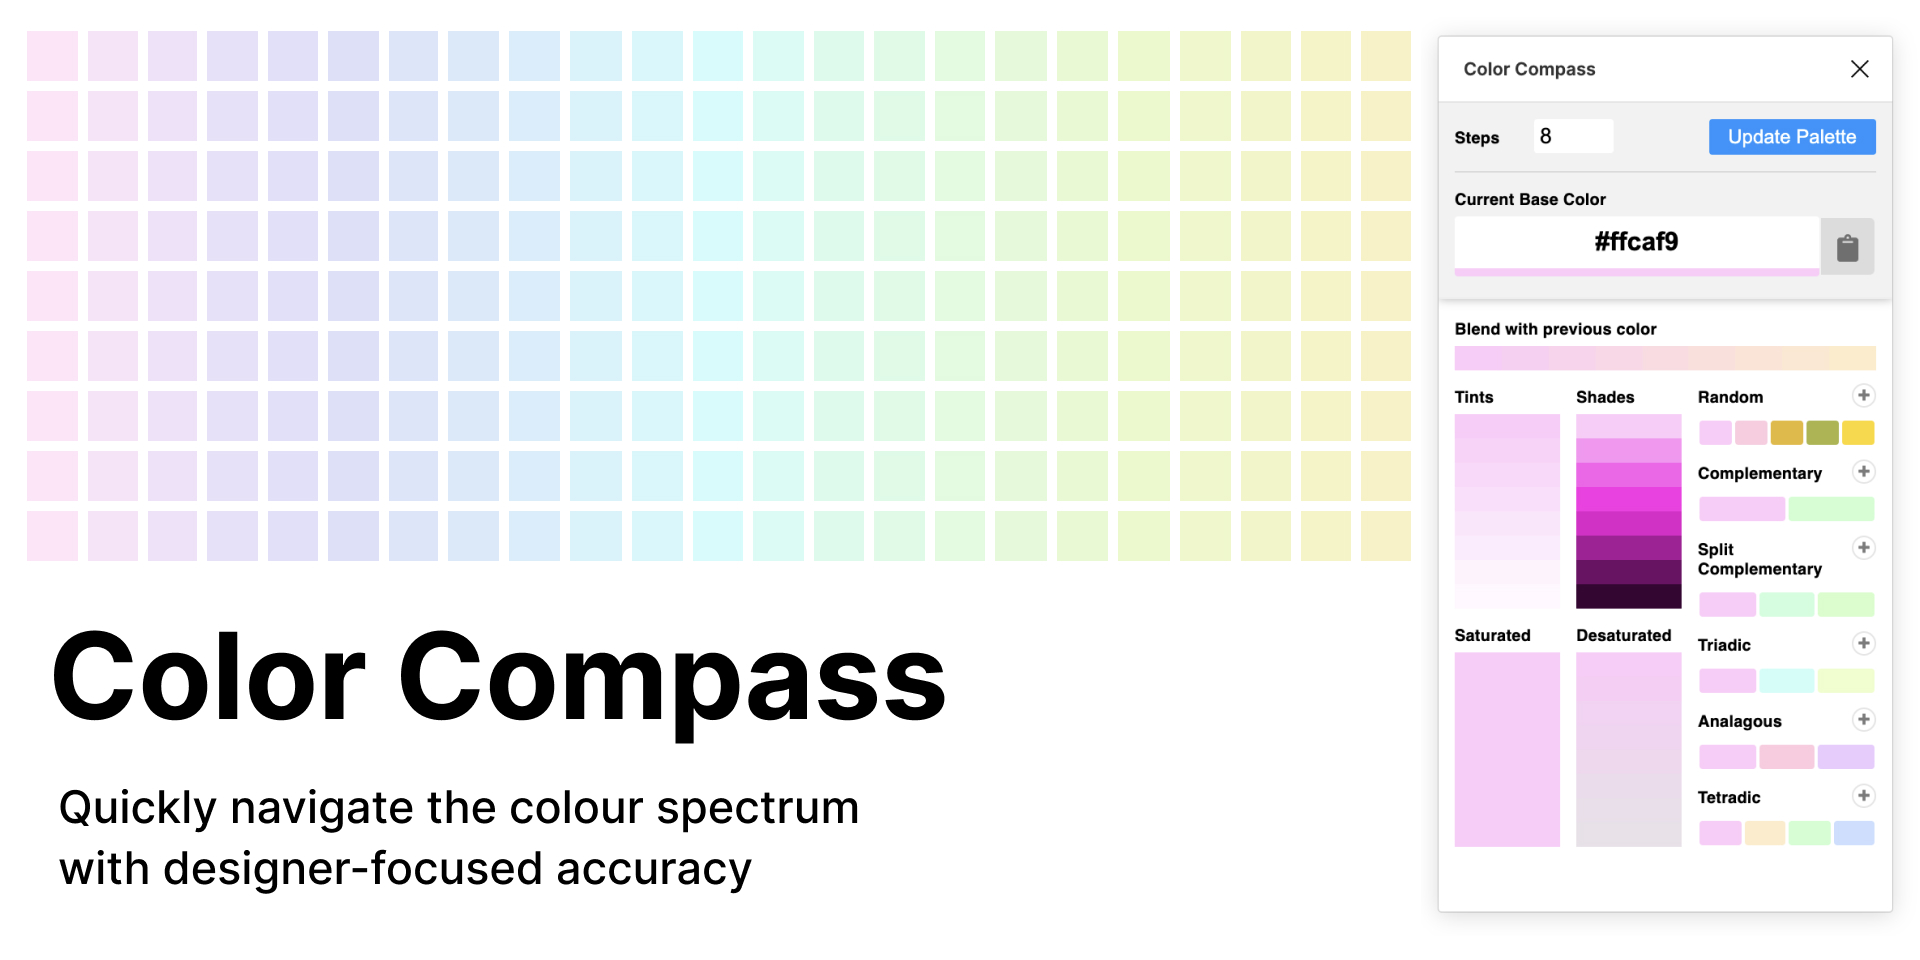
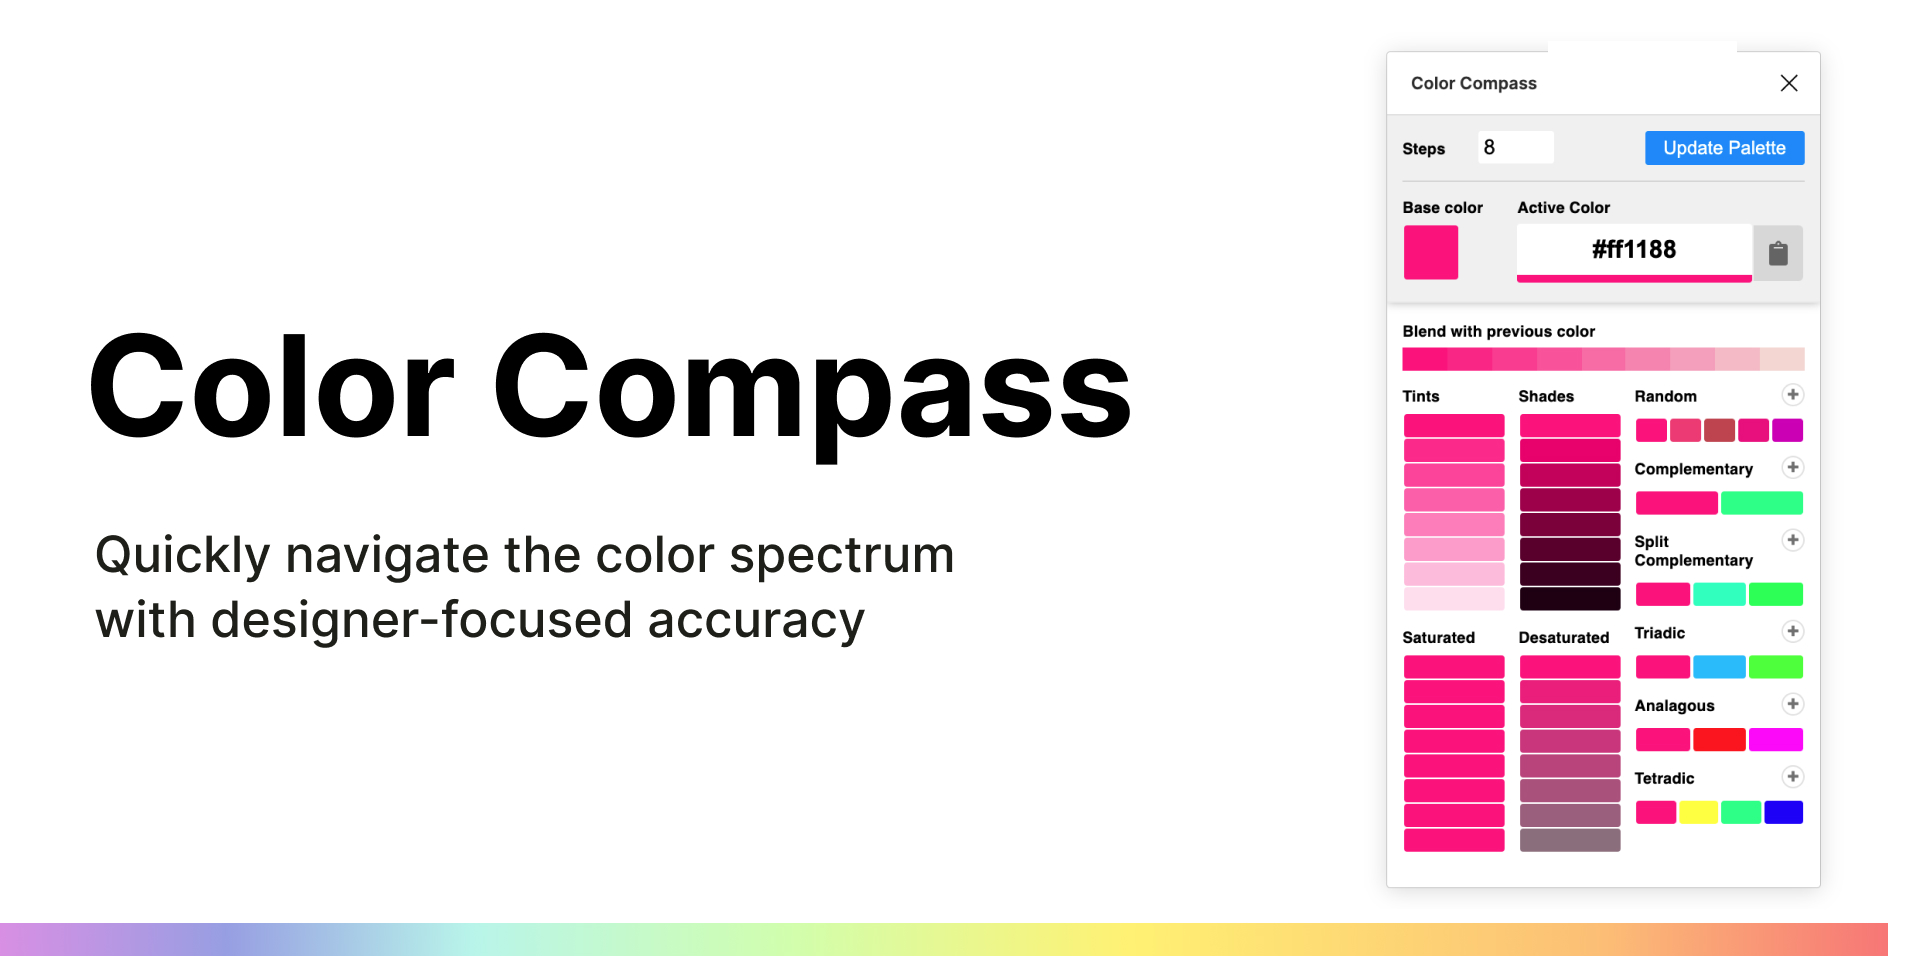
Updated UI and artwork
Added a base colour swatch and updated the input field label for the current active color so it is less confusing

Added spaces back in between the swatches for the tints/shades because they feel better from a design pov

Updated artwork

diff --git a/ui.html b/ui.html
@@ -65,6 +65,7 @@
     overflow: hidden;
     border: 2px solid transparent;
     transition: .3s ease all;
+    margin: 1px;
   }
 
   .swatch:hover {
@@ -108,7 +109,7 @@
     border: 2px solid #00518a;
   }
 
-  #current-color:focus {
+  #active-color:focus {
     border-top: 2px solid #0094FE;
     border-left: 2px solid #0094FE;
     border-right: 2px solid #0094FE;
@@ -147,8 +148,7 @@
   grid-template-columns: repeat( auto-fit, minmax(15px, 1fr) ); */
   }
 
-  #blended .swatch,
-  #variations .swatch {
+  #blended .swatch {
     margin: 0;
     /* flex: none; */
     border-radius: 0;
@@ -184,21 +184,42 @@
   #current-hex {
     border-top: 1px solid #dadada;
     padding: 10px 0;
-    margin-top: 10px
+    margin-top: 10px;
+    display: flex;
+    justify-content: space-between;
+    align-items: stretch;
   }
 
-  #current-color {
+  #base-color-wrapper {
+    flex: .4;
+  }
+
+  #base-color-wrapper .swatch {
+    height: 35px;
+    width: 35px;
+  }
+
+  #base-color {
+    background-color: #c8c8c8;
+    background-color: var(--activeColor);
+  }
+
+  #active-color-wrapper {
+    flex: 1;
+  }
+
+  #active-color-wrapper .inner-wrapper {
+    display: flex;
+  }
+
+  #active-color {
     padding: 5px;
     border: none;
     font-size: 16px;
     font-weight: bold;
     text-align: center;
     width: 100%;
-    border-bottom: 5px solid var(--currentColor);
-  }
-
-  .base-color-wrapper {
-    display: flex;
+    border-bottom: 5px solid var(--activeColor);
   }
 
   #copy {
@@ -209,7 +230,6 @@
     height: calc(100%-5px);
     display: block;
     width: 35px;
-    height: 35px;
     transition: .3s ease all;
   }
 
@@ -242,16 +262,23 @@
 
 
   <div id="current-hex">
-    <label for="currentColor">Current Base Color</label>
-    <div class="base-color-wrapper">
-      <input type="text" name="currentColor" min="3" max="30" id="current-color" value="#C8C8C8" data-r="200"
-        data-g="200" data-b="200" data-hex="#C8C8C8">
-      <button id="copy">
-        <svg id="icon-clipboard" viewBox="0 0 60 80" fill="none" xmlns="http://www.w3.org/2000/svg">
-          <path
-            d="M60 17.5C60 13.4375 56.5625 10 52.5 10H40C40 4.53125 35.4688 0 30 0C24.375 0 20 4.53125 20 10H7.5C3.28125 10 0 13.4375 0 17.5V72.5C0 76.7188 3.28125 80 7.5 80H52.5C56.5625 80 60 76.7188 60 72.5V17.5ZM30 6.25C32.0312 6.25 33.75 7.96875 33.75 10C33.75 12.1875 32.0312 13.75 30 13.75C27.8125 13.75 26.25 12.1875 26.25 10C26.25 7.96875 27.8125 6.25 30 6.25ZM45 24.0625C45 24.6875 44.5312 25 44.0625 25H15.9375C15.3125 25 15 24.6875 15 24.0625V20.9375C15 20.4688 15.3125 20 15.9375 20H44.0625C44.5312 20 45 20.4688 45 20.9375V24.0625Z" />
-        </svg>
-      </button>
+
+    <div id="base-color-wrapper">
+      <div class="label">Base color</div>
+      <button id="base-color" class="swatch" data-r="200" data-g="200" data-b="200" data-hex="#C8C8C8"></button>
+    </div>
+    <div id="active-color-wrapper">
+      <label for="active-color">Active Color</label>
+      <div class="inner-wrapper">
+        <input type="text" name="activeColor" min="3" max="30" id="active-color" value="#C8C8C8" data-r="200"
+          data-g="200" data-b="200" data-hex="#C8C8C8">
+        <button id="copy">
+          <svg id="icon-clipboard" viewBox="0 0 60 80" fill="none" xmlns="http://www.w3.org/2000/svg">
+            <path
+              d="M60 17.5C60 13.4375 56.5625 10 52.5 10H40C40 4.53125 35.4688 0 30 0C24.375 0 20 4.53125 20 10H7.5C3.28125 10 0 13.4375 0 17.5V72.5C0 76.7188 3.28125 80 7.5 80H52.5C56.5625 80 60 76.7188 60 72.5V17.5ZM30 6.25C32.0312 6.25 33.75 7.96875 33.75 10C33.75 12.1875 32.0312 13.75 30 13.75C27.8125 13.75 26.25 12.1875 26.25 10C26.25 7.96875 27.8125 6.25 30 6.25ZM45 24.0625C45 24.6875 44.5312 25 44.0625 25H15.9375C15.3125 25 15 24.6875 15 24.0625V20.9375C15 20.4688 15.3125 20 15.9375 20H44.0625C44.5312 20 45 20.4688 45 20.9375V24.0625Z" />
+          </svg>
+        </button>
+      </div>
     </div>
   </div>
 </div>
@@ -309,13 +336,13 @@
   }, '*');
 
   document.getElementById("copy").addEventListener("click", function () {
-    document.getElementById("current-color").select();
-    document.getElementById("current-color").setSelectionRange(0, 99999); /* For mobile devices */
+    document.getElementById("active-color").select();
+    document.getElementById("active-color").setSelectionRange(0, 99999); /* For mobile devices */
     document.execCommand("copy");
     parent.postMessage({
       pluginMessage: {
         type: 'clipboard',
-        value: document.getElementById("current-color").value
+        value: document.getElementById("active-color").value
       }
     }, '*');
   });
@@ -330,10 +357,10 @@
         prevR: document.getElementById('new-color').dataset.r / 255,
         prevG: document.getElementById('new-color').dataset.g / 255,
         prevB: document.getElementById('new-color').dataset.b / 255,
-        currR: document.getElementById('current-color').dataset.r / 255,
-        currG: document.getElementById('current-color').dataset.g / 255,
-        currB: document.getElementById('current-color').dataset.b / 255,
-        currHex: document.getElementById('current-color').value
+        currR: document.getElementById('active-color').dataset.r / 255,
+        currG: document.getElementById('active-color').dataset.g / 255,
+        currB: document.getElementById('active-color').dataset.b / 255,
+        currHex: document.getElementById('active-color').value
       }
     }, '*');
 
@@ -346,10 +373,10 @@
           prevR: document.getElementById('new-color').dataset.r / 255,
           prevG: document.getElementById('new-color').dataset.g / 255,
           prevB: document.getElementById('new-color').dataset.b / 255,
-          currR: document.getElementById('current-color').dataset.r / 255,
-          currG: document.getElementById('current-color').dataset.g / 255,
-          currB: document.getElementById('current-color').dataset.b / 255,
-          currHex: document.getElementById('current-color').value
+          currR: document.getElementById('active-color').dataset.r / 255,
+          currG: document.getElementById('active-color').dataset.g / 255,
+          currB: document.getElementById('active-color').dataset.b / 255,
+          currHex: document.getElementById('active-color').value
         }
       }, '*');
       onmessage = (event) => {
@@ -377,12 +404,20 @@
           //update the previous step value
           let steps = document.getElementById('custom-steps').value;
           document.getElementById('custom-steps').setAttribute('data-previous', steps);
-          document.getElementById('current-color').value = hex;
-          document.getElementById('current-color').dataset.r = r;
-          document.getElementById('current-color').dataset.g = g;
-          document.getElementById('current-color').dataset.b = b;
+          document.getElementById('active-color').value = hex;
+          document.getElementById('active-color').dataset.r = r;
+          document.getElementById('active-color').dataset.g = g;
+          document.getElementById('active-color').dataset.b = b;
 
-          document.documentElement.style.setProperty('--currentColor', hex);
+
+          document.getElementById('base-color').value = hex;
+          document.getElementById('base-color').dataset.hex = hex;
+          document.getElementById('base-color').style.setProperty('--activeColor', hex);
+          document.getElementById('base-color').dataset.r = r;
+          document.getElementById('base-color').dataset.g = g;
+          document.getElementById('base-color').dataset.b = b;
+
+          document.documentElement.style.setProperty('--activeColor', hex);
 
           //loop through the object, build the new palatte
           palettes.forEach(function (palette) {
@@ -440,12 +475,13 @@
           //send info about the swatch we just clicked
           for (var i = 0; i < swatches.length; i++) {
             swatches[i].addEventListener("click", function () {
-              document.getElementById('current-color').value = this.dataset.hex;
-              document.getElementById('current-color').dataset.r = this.dataset.r;
-              document.getElementById('current-color').dataset.g = this.dataset.g;
-              document.getElementById('current-color').dataset.b = this.dataset.b;
-              document.getElementById('current-color').dataset.hex = this.dataset.hex;
-              document.documentElement.style.setProperty('--currentColor', this.dataset.hex);
+              document.getElementById('active-color').value = this.dataset.hex;
+              document.getElementById('active-color').dataset.r = this.dataset.r;
+              document.getElementById('active-color').dataset.g = this.dataset.g;
+              document.getElementById('active-color').dataset.b = this.dataset.b;
+              document.getElementById('active-color').dataset.hex = this.dataset.hex;
+
+              document.documentElement.style.setProperty('--activeColor', this.dataset.hex);
 
               parent.postMessage({
                 pluginMessage: {
@@ -491,7 +527,7 @@
 
   //update the color with events
   document.getElementById('update-color').addEventListener("click", updateColor);
-  document.getElementById('current-color').addEventListener("keyup", function (event) {
+  document.getElementById('active-color').addEventListener("keyup", function (event) {
     if (event.key === "Enter") {
       updateColor();
     }
